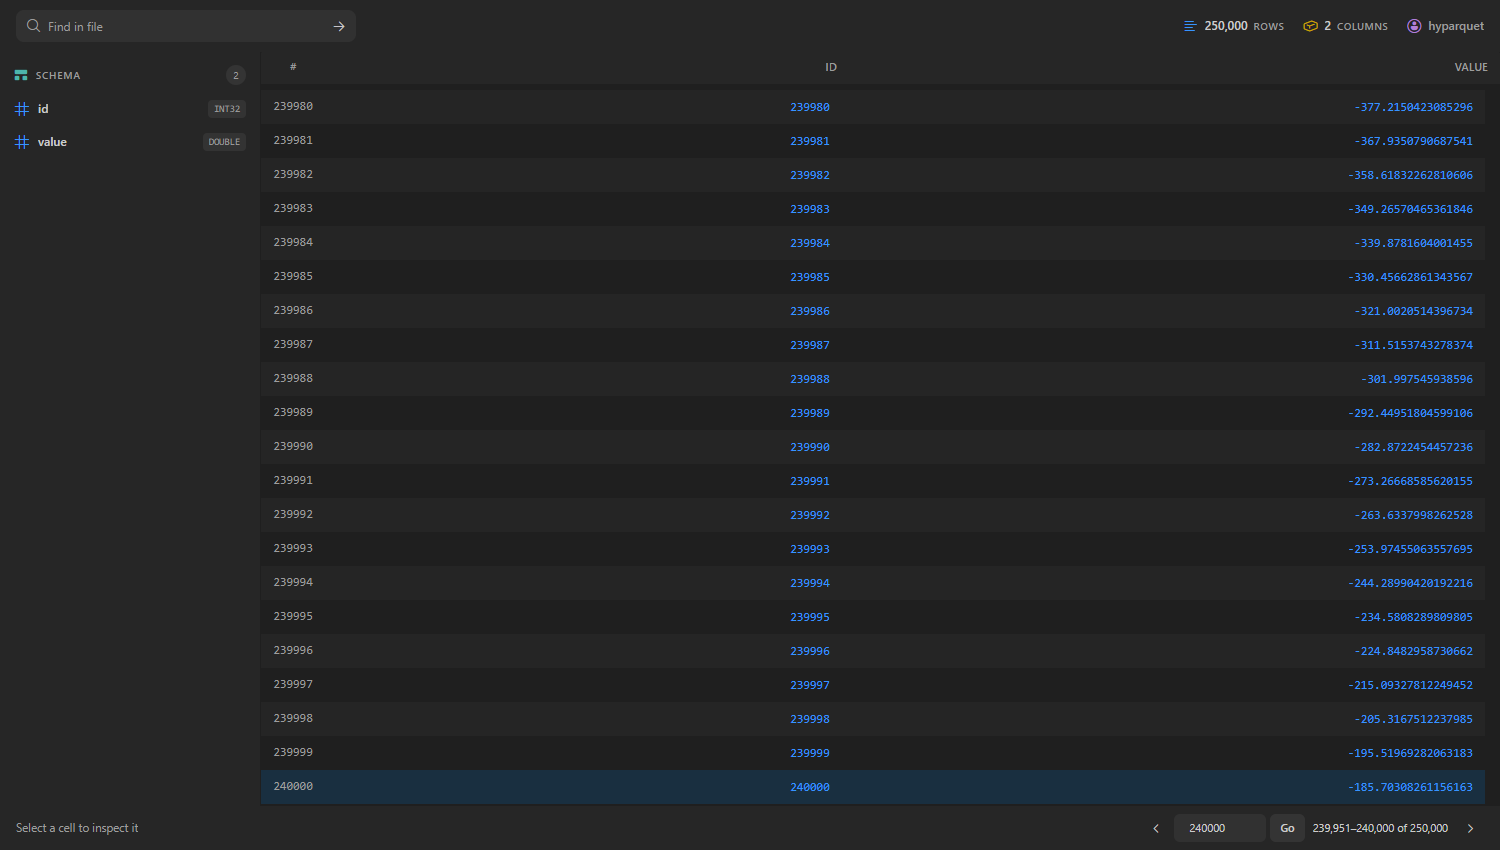
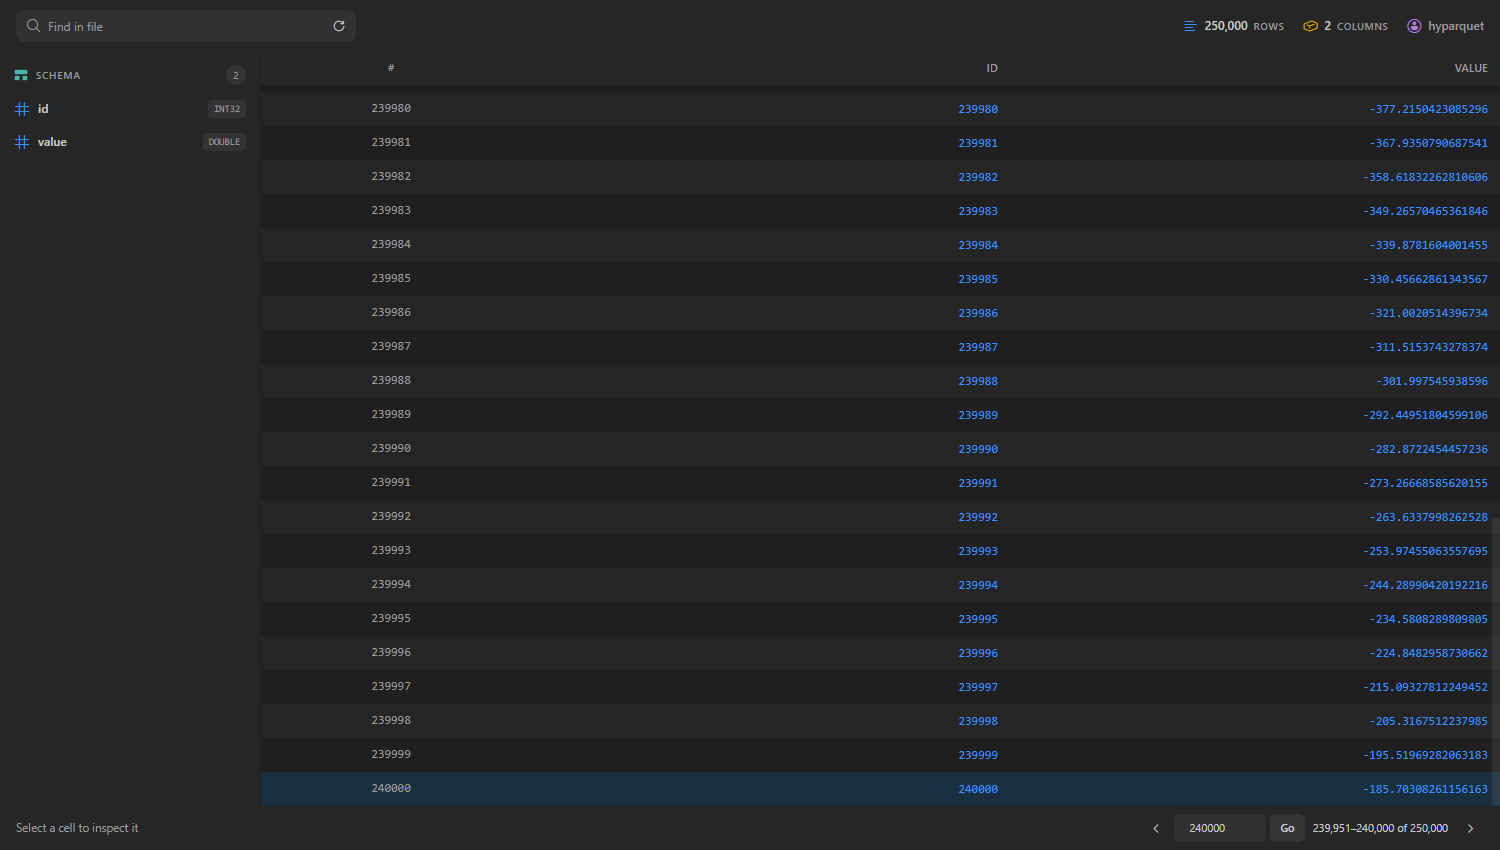
docs: 记录无障碍修复并刷新对外截图
docs/screenshots 的 parquet 渲染停在 2026-11-09 17:41，而源码 11-10 11:16 改过 —— README 一直展示着已经不存在的界面（34px 行距、隔行底纹、无分隔线都没有）。重跑 pnpm verify:ui --docs，11 张图刷新；现在图里的条纹、34px 行距、标签层深色 muted 都与代码一致。

diff --git a/CHANGELOG.md b/CHANGELOG.md
@@ -16,6 +16,12 @@ and this project adheres to [Semantic Versioning](https://semver.org/spec/v2.0.0
 
 ### Fixed
 
+- The parquet error state is a live region (`role="alert"`). That state replaces the entire
+  chrome with one message, so a screen-reader user previously received no announcement at all.
+- The label layer — 10px table headers, 9.5px type badges, the `SCHEMA` section title — gets a
+  darker muted foreground under a light theme, because the theme's `descriptionForeground` is
+  tuned for 13px body text and measured 3.5–4.0:1 at these sizes. The UI contrast gate now
+  covers those three selectors as well, so the declared values cannot drift back down.
 - A scan that finds nothing now says `0 matches` instead of leaving the bar blank, which was
   indistinguishable from "you never searched".
 - The match counter reads `1 match` / `N matches` instead of `1 row` / `N rows`, which collided
